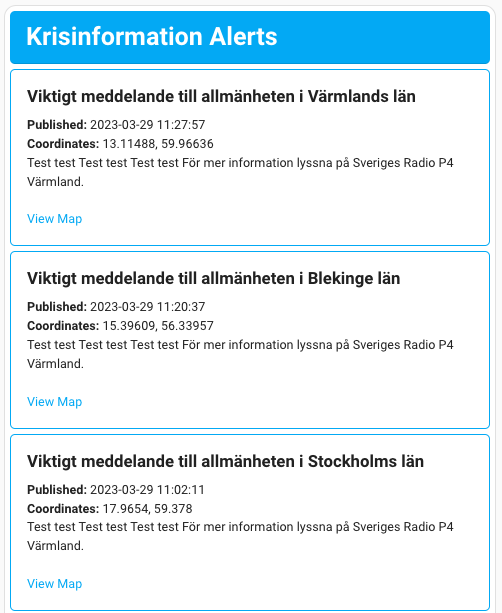
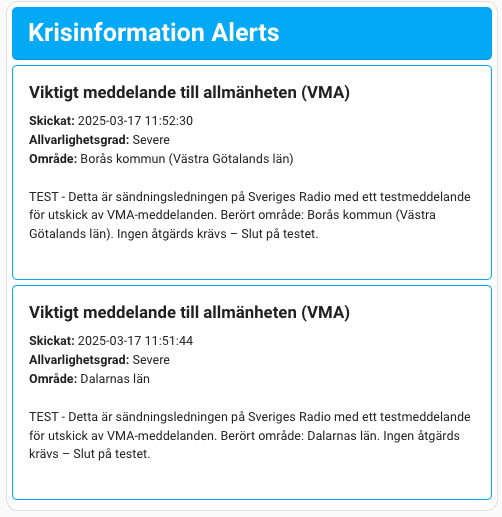
Version 0.1.0
Rebuild for Krisinformations sensor version 0.1.0

Changed region(s): [[0.0, 0.0, 1.0, 1.0]]

diff --git a/krisinformation-alert-card.js b/krisinformation-alert-card.js
@@ -12,7 +12,6 @@ class KrisinformationAlertCard extends HTMLElement {
 
     const alerts = stateObj.attributes.alerts || [];
 
-
     if (this.lastChild && this._alerts === alerts) {
       return;
     }
@@ -62,11 +61,12 @@ class KrisinformationAlertCard extends HTMLElement {
       }
     `;
 
-
     if (this.config.show_header !== false) {
       const header = document.createElement('div');
       header.className = 'header';
-      header.innerHTML = `<div class="alert-headline">${this.config.title || stateObj.attributes.friendly_name}</div>`;
+
+      const title = this.config.title || stateObj.attributes.friendly_name;
+      header.innerHTML = `<div class="alert-headline">${title}</div>`;
       card.appendChild(style);
       card.appendChild(header);
     } else {
@@ -83,21 +83,34 @@ class KrisinformationAlertCard extends HTMLElement {
         const box = document.createElement('div');
         box.className = 'alert-box';
 
-
         const boxHeader = document.createElement('div');
         boxHeader.className = 'alert-header';
-        boxHeader.innerHTML = `<div class="alert-headline">${alert.Headline || 'N/A'}</div>`;
+        boxHeader.innerHTML = `<div class="alert-headline">${alert.event || 'N/A'}</div>`;
         box.appendChild(boxHeader);
 
-
         let detailsHTML = '';
-        if (this.config.show_published !== false) {
-          detailsHTML += `<b>Published:</b> ${alert.Published ? new Date(alert.Published).toLocaleString() : 'N/A'}<br>`;
+
+        if (this.config.show_sent !== false) {
+          const sentTime = alert.sent
+            ? new Date(alert.sent).toLocaleString()
+            : 'N/A';
+          detailsHTML += `<b>Skickat:</b> ${sentTime}<br>`;
         }
-        if (this.config.show_pushmessage !== false) {
-          detailsHTML += `${alert.PushMessage || 'N/A'}<br>`;
-          detailsHTML += `<br>`;
+
+        if (this.config.show_severity !== false) {
+          detailsHTML += `<b>Allvarlighetsgrad:</b> ${alert.severity || 'N/A'}<br>`;
         }
+
+        if (this.config.show_areas !== false) {
+          detailsHTML += `<b>Område:</b> ${alert.areas || ''}<br>`;
+        }
+
+        if (this.config.show_description !== false) {
+          detailsHTML += '<br>' + (alert.description || 'N/A') + '<br>';
+        }
+
+        detailsHTML += '<br>';
+
         const details = document.createElement('div');
         details.className = 'alert-details';
         details.innerHTML = detailsHTML;
@@ -132,14 +145,17 @@ class KrisinformationAlertCard extends HTMLElement {
       entity: entities.find(e => e.startsWith('sensor.')) || '',
       title: 'Krisinformation Alerts',
       show_header: true,
-      show_published: true,
-      show_pushmessage: true,
+      show_sent: true,
+      show_severity: true,
+      show_areas: true,
+      show_description: true,
       show_border: true,
     };
   }
 }
 
 customElements.define('krisinformation-alert-card', KrisinformationAlertCard);
+
 
 class KrisinformationAlertCardEditor extends HTMLElement {
   constructor() {
@@ -165,9 +181,7 @@ class KrisinformationAlertCardEditor extends HTMLElement {
           name: 'entity',
           required: true,
           selector: {
-            entity: {
-              domain: 'sensor'
-            }
+            entity: { domain: 'sensor' }
           }
         },
         {
@@ -183,13 +197,25 @@ class KrisinformationAlertCardEditor extends HTMLElement {
           }
         },
         {
-          name: 'show_published',
+          name: 'show_sent',
           selector: {
             boolean: {}
           }
         },
         {
-          name: 'show_pushmessage',
+          name: 'show_severity',
+          selector: {
+            boolean: {}
+          }
+        },
+        {
+          name: 'show_areas',
+          selector: {
+            boolean: {}
+          }
+        },
+        {
+          name: 'show_description',
           selector: {
             boolean: {}
           }
@@ -199,15 +225,17 @@ class KrisinformationAlertCardEditor extends HTMLElement {
           selector: {
             boolean: {}
           }
-        }
+        },
       ];
 
       const data = {
         entity: this._config.entity || '',
         title: this._config.title || '',
         show_header: this._config.show_header !== undefined ? this._config.show_header : true,
-        show_published: this._config.show_published !== undefined ? this._config.show_published : true,
-        show_pushmessage: this._config.show_pushmessage !== undefined ? this._config.show_pushmessage : true,
+        show_sent: this._config.show_sent !== undefined ? this._config.show_sent : true,
+        show_severity: this._config.show_severity !== undefined ? this._config.show_severity : true,
+        show_areas: this._config.show_areas !== undefined ? this._config.show_areas : true,
+        show_description: this._config.show_description !== undefined ? this._config.show_description : true,
         show_border: this._config.show_border !== undefined ? this._config.show_border : true,
       };
 
@@ -228,8 +256,10 @@ class KrisinformationAlertCardEditor extends HTMLElement {
         entity: this._config.entity || '',
         title: this._config.title || '',
         show_header: this._config.show_header !== undefined ? this._config.show_header : true,
-        show_published: this._config.show_published !== undefined ? this._config.show_published : true,
-        show_pushmessage: this._config.show_pushmessage !== undefined ? this._config.show_pushmessage : true,
+        show_sent: this._config.show_sent !== undefined ? this._config.show_sent : true,
+        show_severity: this._config.show_severity !== undefined ? this._config.show_severity : true,
+        show_areas: this._config.show_areas !== undefined ? this._config.show_areas : true,
+        show_description: this._config.show_description !== undefined ? this._config.show_description : true,
         show_border: this._config.show_border !== undefined ? this._config.show_border : true,
       };
     }

diff --git a/README.md b/README.md
@@ -7,7 +7,7 @@
 
 ## Overview
 
-This custom card is designed for the [Krisinformation integration](https://github.com/Nicxe/krisinformation), allowing you to display crisis alerts (VMA) from the Swedish krisinformation.se on your Home Assistant dashboards.
+This custom card is designed for the [Krisinformation integration](https://github.com/Nicxe/krisinformation), allowing you to display crisis alerts (VMA) from Sveriges Radio's API for Important Public Announcements on your Home Assistant dashboards.
 
 
  
@@ -37,7 +37,7 @@ You can install this card by following one of the guides below:
 
 1. Download the `krisinformation-alert-card.js` file from the [latest release](https://github.com/Nicxe/krisinformation-alert-card/releases).
 2. Place the `krisinformation-alert-card.js` file in your `config/www` folder.
-3. Add a reference to `krisinformation-alert-card.js` in your dashboard. There are two ways to do this:
+3. Add a reference to `/local/krisinformation-alert-card.js` in your dashboard. There are two ways to do this:
     - **Using the UI:** Go to _Settings_ → _Dashboards_ → _More Options_ → _Resources_ → _Add Resource_. Set the URL as `krisinformation-alert-card.js` and set the _Resource type_ to `JavaScript Module`.
       **Note:** If you do not see the Resources menu, you need to enable _Advanced Mode_ in your _User Profile_.
     - **Using YAML:** Add the following code to the `lovelace` section of your configuration:
@@ -63,14 +63,12 @@ The card can be configured using the dashboard UI editor:
 
 ```yaml
 type: custom:krisinformation-alert-card
-entity: sensor.krisinformation_varningar
+entity: sensor.krisinformation_hela_sverige
 title: Krisinformation Alerts
 show_header: true
 show_published: true
-show_coordinates: true
 show_pushmessage: true
 show_border: true
-show_map_url: true
 ```
 
 ## Usage Screenshots
